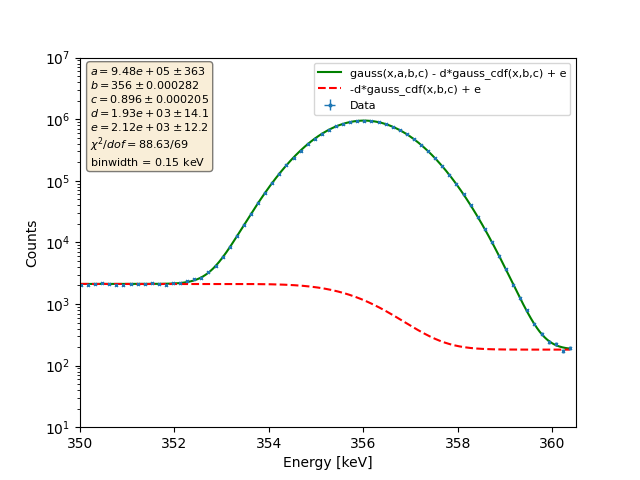
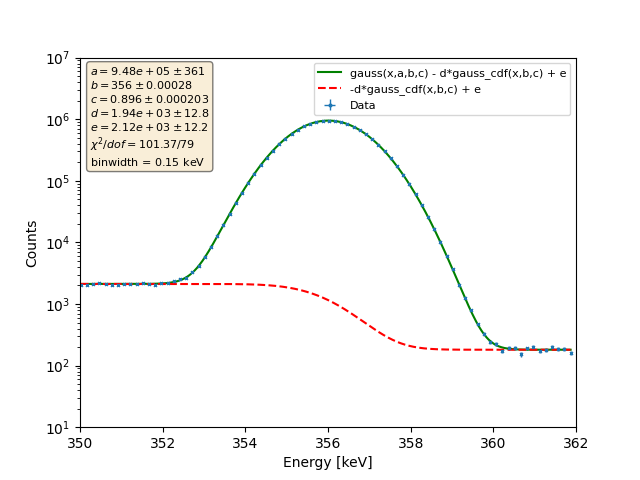
update

diff --git a/Ba133_analysis/simulations/IC-legend/macro/ba_top/PostProc/drawPostProcessed_FCCD.py b/Ba133_analysis/simulations/IC-legend/macro/ba_top/PostProc/drawPostProcessed_FCCD.py
@@ -66,7 +66,7 @@ def main():
     print("")
     print("Fitting peaks of interest...")
 
-    xmin_356, xmax_356 = 350, 360.5 #362 #360.5 for gammas #2 #360 #kev 
+    xmin_356, xmax_356 = 350, 362 #362 #360.5 for gammas #2 #360 #kev 
     plt.figure()
     counts, bins, bars = plt.hist(energies, bins = bins, histtype = 'step') #, linewidth = '0.35')
     popt, pcov, xfit = fit_peak_356_2("Energy (keV)", bins, counts, xmin_356, xmax_356)
